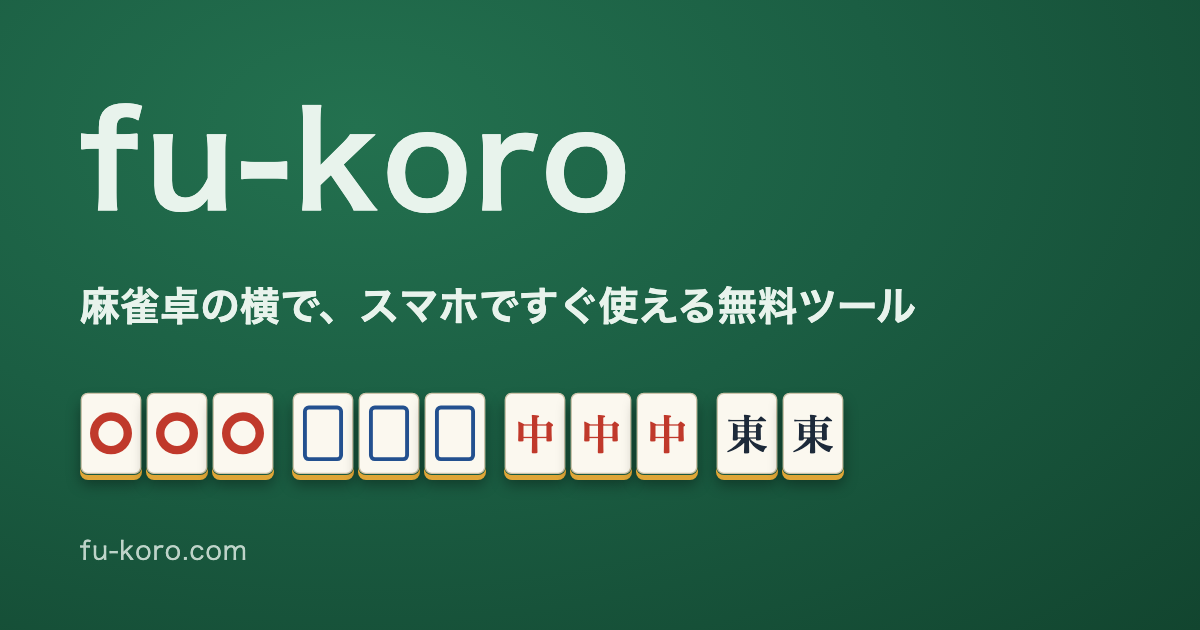
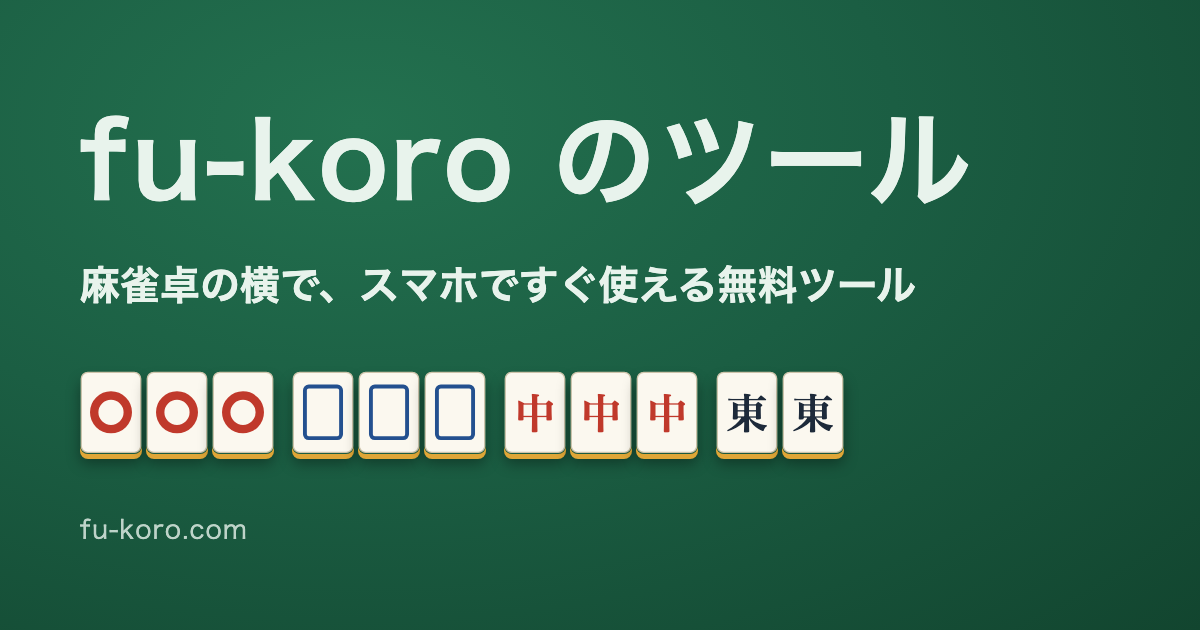
Name the site fu-koro のツール and the app 符ナビ

diff --git a/index.html b/index.html
@@ -3,44 +3,44 @@
 <head>
   <meta charset="utf-8">
   <meta name="viewport" content="width=device-width, initial-scale=1">
-  <title>fu-koro｜無料で使える麻雀ツール</title>
-  <meta name="description" content="麻雀の点数計算など、麻雀卓の横でスマホからすぐ使える無料ツールをまとめたサイト。登録不要で、覚えきれないルールをその場で確かめられます。">
+  <title>fu-koro のツール｜麻雀卓の横で使える無料ツール</title>
+  <meta name="description" content="fu-koro が作った、麻雀の点数計算など、麻雀卓の横でスマホからすぐ使える無料ツールをまとめたサイト。登録不要で、覚えきれないルールをその場で確かめられます。">
   <meta name="theme-color" content="#1b5e43">
   <link rel="canonical" href="https://fu-koro.com/">
   <link rel="icon" href="/favicon.svg" type="image/svg+xml">
   <link rel="icon" href="/favicon-48.png" sizes="48x48" type="image/png">
   <link rel="apple-touch-icon" href="/apple-touch-icon.png">
-  <meta property="og:title" content="fu-koro｜無料で使える麻雀ツール">
-  <meta property="og:description" content="麻雀の点数計算など、麻雀卓の横でスマホからすぐ使える無料ツールをまとめたサイト。登録不要で、覚えきれないルールをその場で確かめられます。">
+  <meta property="og:title" content="fu-koro のツール｜麻雀卓の横で使える無料ツール">
+  <meta property="og:description" content="fu-koro が作った、麻雀の点数計算など、麻雀卓の横でスマホからすぐ使える無料ツールをまとめたサイト。登録不要で、覚えきれないルールをその場で確かめられます。">
   <meta property="og:url" content="https://fu-koro.com/">
   <meta property="og:type" content="website">
   <meta property="og:image" content="https://fu-koro.com/ogp.png">
-  <meta property="og:site_name" content="fu-koro">
+  <meta property="og:site_name" content="fu-koro のツール">
   <meta property="og:locale" content="ja_JP">
   <meta name="twitter:card" content="summary_large_image">
   <link rel="stylesheet" href="/site.css">
 </head>
 <body>
   <header class="site-header">
-    <h1>fu-koro</h1>
+    <h1>fu-koro のツール</h1>
     <p>麻雀卓の横で、スマホですぐ使える無料ツール。</p>
   </header>
   <main>
     <ul class="apps">
       <li>
         <a class="app" href="/mahjong-fu-calculator/">
-          <strong>麻雀 点数計算</strong>
-          <span>あがった牌をタップするだけで、点数・役・符を自動で計算します。</span>
+          <strong>符ナビ</strong>
+          <span>麻雀の点数計算・符計算アプリ。あがった牌をタップするだけで、点数・役・符を自動で計算します。</span>
         </a>
       </li>
     </ul>
 
-    <h2>fu-koro とは</h2>
+    <h2>このサイトについて</h2>
     <p>
-      麻雀を覚えはじめた人が、卓を囲んでいる最中に「これは何点？」「この役は何翻？」と迷ったとき、その場でスマホを開いて確かめられるツールを作っています。アプリのインストールや会員登録は必要ありません。ブラウザで開けばすぐ使えます。
+      麻雀を覚えはじめた人が、卓を囲んでいる最中に「これは何点？」「この役は何翻？」と迷ったとき、その場でスマホを開いて確かめられるツールを、fu-koro が作って公開しています。アプリのインストールや会員登録は必要ありません。ブラウザで開けばすぐ使えます。
     </p>
     <p>
-      名前の「fu-koro」は、麻雀の点数を決める「符（ふ）」から取りました。符の計算は、麻雀に慣れた人でも間違えやすいところです。計算結果だけでなく「なぜその点数になるのか」も一緒に表示するので、使っているうちに自然と数え方が身につきます。
+      最初のツールは、麻雀の点数計算アプリ「符ナビ」です。計算結果だけでなく「なぜその点数になるのか」も一緒に表示するので、使っているうちに自然と数え方が身につきます。
     </p>
 
     <h2>こんな人に</h2>

diff --git a/about/index.html b/about/index.html
@@ -3,32 +3,32 @@
 <head>
   <meta charset="utf-8">
   <meta name="viewport" content="width=device-width, initial-scale=1">
-  <title>運営者情報｜fu-koro</title>
-  <meta name="description" content="fu-koro の運営者、サイトの目的、提供しているツール、計算に使っているルール、お問い合わせ先をまとめています。">
+  <title>運営者情報｜fu-koro のツール</title>
+  <meta name="description" content="fu-koro のツールの運営者、サイトの目的、提供しているツール、計算に使っているルール、お問い合わせ先をまとめています。">
   <meta name="theme-color" content="#1b5e43">
   <link rel="canonical" href="https://fu-koro.com/about/">
   <link rel="icon" href="/favicon.svg" type="image/svg+xml">
   <link rel="icon" href="/favicon-48.png" sizes="48x48" type="image/png">
   <link rel="apple-touch-icon" href="/apple-touch-icon.png">
-  <meta property="og:title" content="運営者情報｜fu-koro">
-  <meta property="og:description" content="fu-koro の運営者、サイトの目的、提供しているツール、計算に使っているルール、お問い合わせ先をまとめています。">
+  <meta property="og:title" content="運営者情報｜fu-koro のツール">
+  <meta property="og:description" content="fu-koro のツールの運営者、サイトの目的、提供しているツール、計算に使っているルール、お問い合わせ先をまとめています。">
   <meta property="og:url" content="https://fu-koro.com/about/">
   <meta property="og:type" content="website">
   <meta property="og:image" content="https://fu-koro.com/ogp.png">
-  <meta property="og:site_name" content="fu-koro">
+  <meta property="og:site_name" content="fu-koro のツール">
   <meta property="og:locale" content="ja_JP">
   <meta name="twitter:card" content="summary_large_image">
   <link rel="stylesheet" href="/site.css">
 </head>
 <body>
   <header class="site-header is-sub">
-    <a class="site-name" href="/">fu-koro</a>
+    <a class="site-name" href="/">fu-koro のツール</a>
     <h1>運営者情報</h1>
   </header>
   <main>
     <dl class="facts">
       <dt>サイト名</dt>
-      <dd>fu-koro</dd>
+      <dd>fu-koro のツール</dd>
       <dt>URL</dt>
       <dd>https://fu-koro.com/</dd>
       <dt>運営者</dt>
@@ -47,7 +47,7 @@
 
     <h2>提供しているツール</h2>
     <ul>
-      <li><a href="/mahjong-fu-calculator/">麻雀 点数計算</a>：あがった牌をタップするだけで、点数・役・符を自動で計算します。</li>
+      <li><a href="/mahjong-fu-calculator/">符ナビ</a>（麻雀の点数計算・符計算）：あがった牌をタップするだけで、点数・役・符を自動で計算します。</li>
     </ul>
 
     <h2>計算のルール</h2>

diff --git a/privacy/index.html b/privacy/index.html
@@ -3,30 +3,30 @@
 <head>
   <meta charset="utf-8">
   <meta name="viewport" content="width=device-width, initial-scale=1">
-  <title>プライバシーポリシー｜fu-koro</title>
-  <meta name="description" content="fu-koro（fu-koro.com）における広告の配信、Cookie の利用、入力した情報の扱い、外部への情報送信、免責事項について説明します。">
+  <title>プライバシーポリシー｜fu-koro のツール</title>
+  <meta name="description" content="fu-koro のツール（fu-koro.com）における広告の配信、Cookie の利用、入力した情報の扱い、外部への情報送信、免責事項について説明します。">
   <meta name="theme-color" content="#1b5e43">
   <link rel="canonical" href="https://fu-koro.com/privacy/">
   <link rel="icon" href="/favicon.svg" type="image/svg+xml">
   <link rel="icon" href="/favicon-48.png" sizes="48x48" type="image/png">
   <link rel="apple-touch-icon" href="/apple-touch-icon.png">
-  <meta property="og:title" content="プライバシーポリシー｜fu-koro">
-  <meta property="og:description" content="fu-koro（fu-koro.com）における広告の配信、Cookie の利用、入力した情報の扱い、外部への情報送信、免責事項について説明します。">
+  <meta property="og:title" content="プライバシーポリシー｜fu-koro のツール">
+  <meta property="og:description" content="fu-koro のツール（fu-koro.com）における広告の配信、Cookie の利用、入力した情報の扱い、外部への情報送信、免責事項について説明します。">
   <meta property="og:url" content="https://fu-koro.com/privacy/">
   <meta property="og:type" content="website">
   <meta property="og:image" content="https://fu-koro.com/ogp.png">
-  <meta property="og:site_name" content="fu-koro">
+  <meta property="og:site_name" content="fu-koro のツール">
   <meta property="og:locale" content="ja_JP">
   <meta name="twitter:card" content="summary_large_image">
   <link rel="stylesheet" href="/site.css">
 </head>
 <body>
   <header class="site-header is-sub">
-    <a class="site-name" href="/">fu-koro</a>
+    <a class="site-name" href="/">fu-koro のツール</a>
     <h1>プライバシーポリシー</h1>
   </header>
   <main>
-    <p>fu-koro（以下「当サイト」）は、<code>fu-koro.com</code> で公開しているページとツールについて、利用者の情報を次のとおり扱います。</p>
+    <p>fu-koro のツール（以下「当サイト」）は、運営者の fu-koro が <code>fu-koro.com</code> で公開しているページとツールについて、利用者の情報を次のとおり扱います。</p>
 
     <h2>広告の配信について</h2>
     <p>

diff --git a/contact/index.html b/contact/index.html
@@ -3,26 +3,26 @@
 <head>
   <meta charset="utf-8">
   <meta name="viewport" content="width=device-width, initial-scale=1">
-  <title>お問い合わせ｜fu-koro</title>
+  <title>お問い合わせ｜fu-koro のツール</title>
   <meta name="description" content="fu-koro へのお問い合わせ、ツールの不具合の報告、ご要望は Google フォームから受け付けています。">
   <meta name="theme-color" content="#1b5e43">
   <link rel="canonical" href="https://fu-koro.com/contact/">
   <link rel="icon" href="/favicon.svg" type="image/svg+xml">
   <link rel="icon" href="/favicon-48.png" sizes="48x48" type="image/png">
   <link rel="apple-touch-icon" href="/apple-touch-icon.png">
-  <meta property="og:title" content="お問い合わせ｜fu-koro">
+  <meta property="og:title" content="お問い合わせ｜fu-koro のツール">
   <meta property="og:description" content="fu-koro へのお問い合わせ、ツールの不具合の報告、ご要望は Google フォームから受け付けています。">
   <meta property="og:url" content="https://fu-koro.com/contact/">
   <meta property="og:type" content="website">
   <meta property="og:image" content="https://fu-koro.com/ogp.png">
-  <meta property="og:site_name" content="fu-koro">
+  <meta property="og:site_name" content="fu-koro のツール">
   <meta property="og:locale" content="ja_JP">
   <meta name="twitter:card" content="summary_large_image">
   <link rel="stylesheet" href="/site.css">
 </head>
 <body>
   <header class="site-header is-sub">
-    <a class="site-name" href="/">fu-koro</a>
+    <a class="site-name" href="/">fu-koro のツール</a>
     <h1>お問い合わせ</h1>
   </header>
   <main>
@@ -33,7 +33,7 @@
     <h2>不具合を報告するとき</h2>
     <p>次のことを書いていただけると、原因を早く調べられます。</p>
     <ul>
-      <li>使ったツールの名前（例: 麻雀 点数計算）</li>
+      <li>使ったツールの名前（例: 符ナビ）</li>
       <li>入力した手牌、鳴き、あがった牌</li>
       <li>あがり方（ツモ・ロン）、場風と自風、本場、ドラ</li>
       <li>表示された点数と、正しいと思う点数</li>
